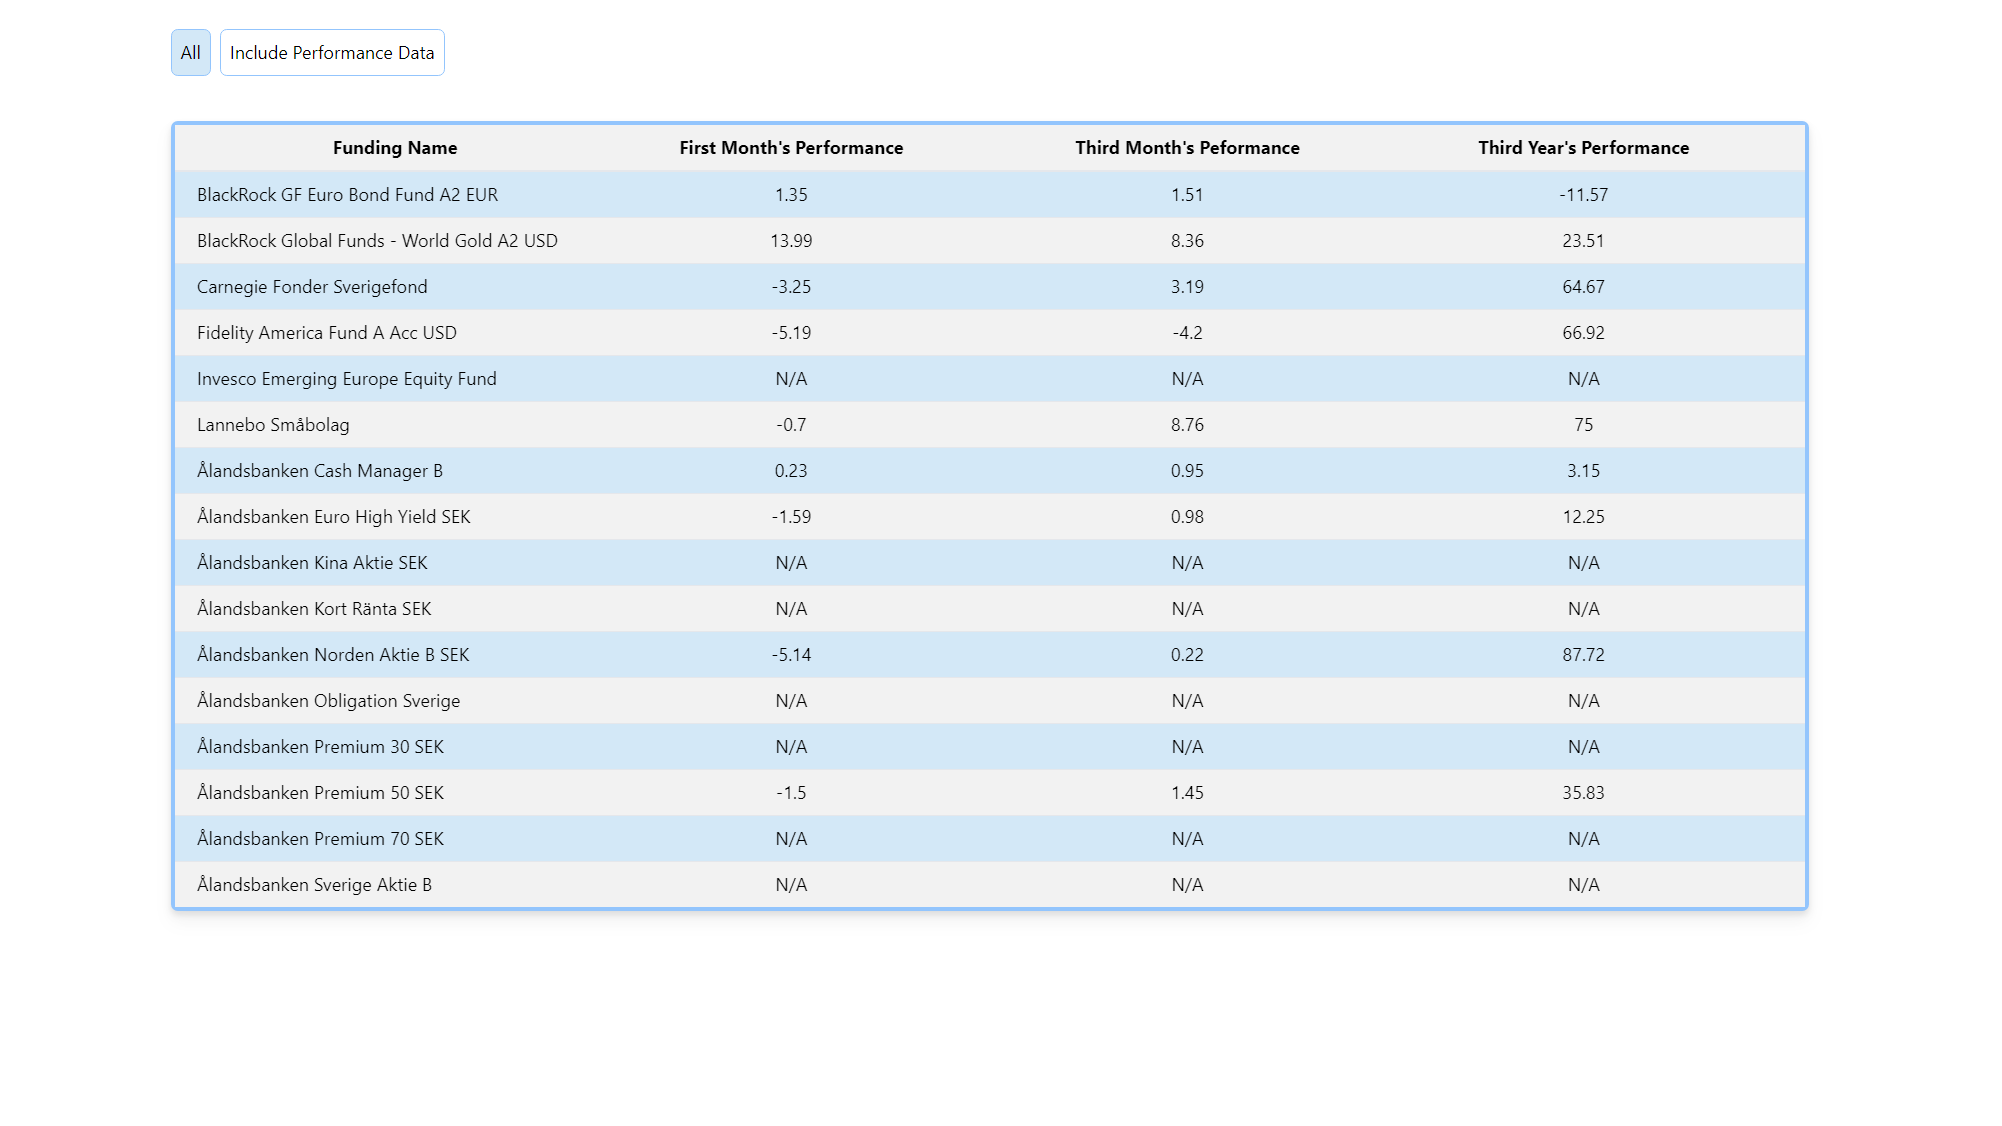
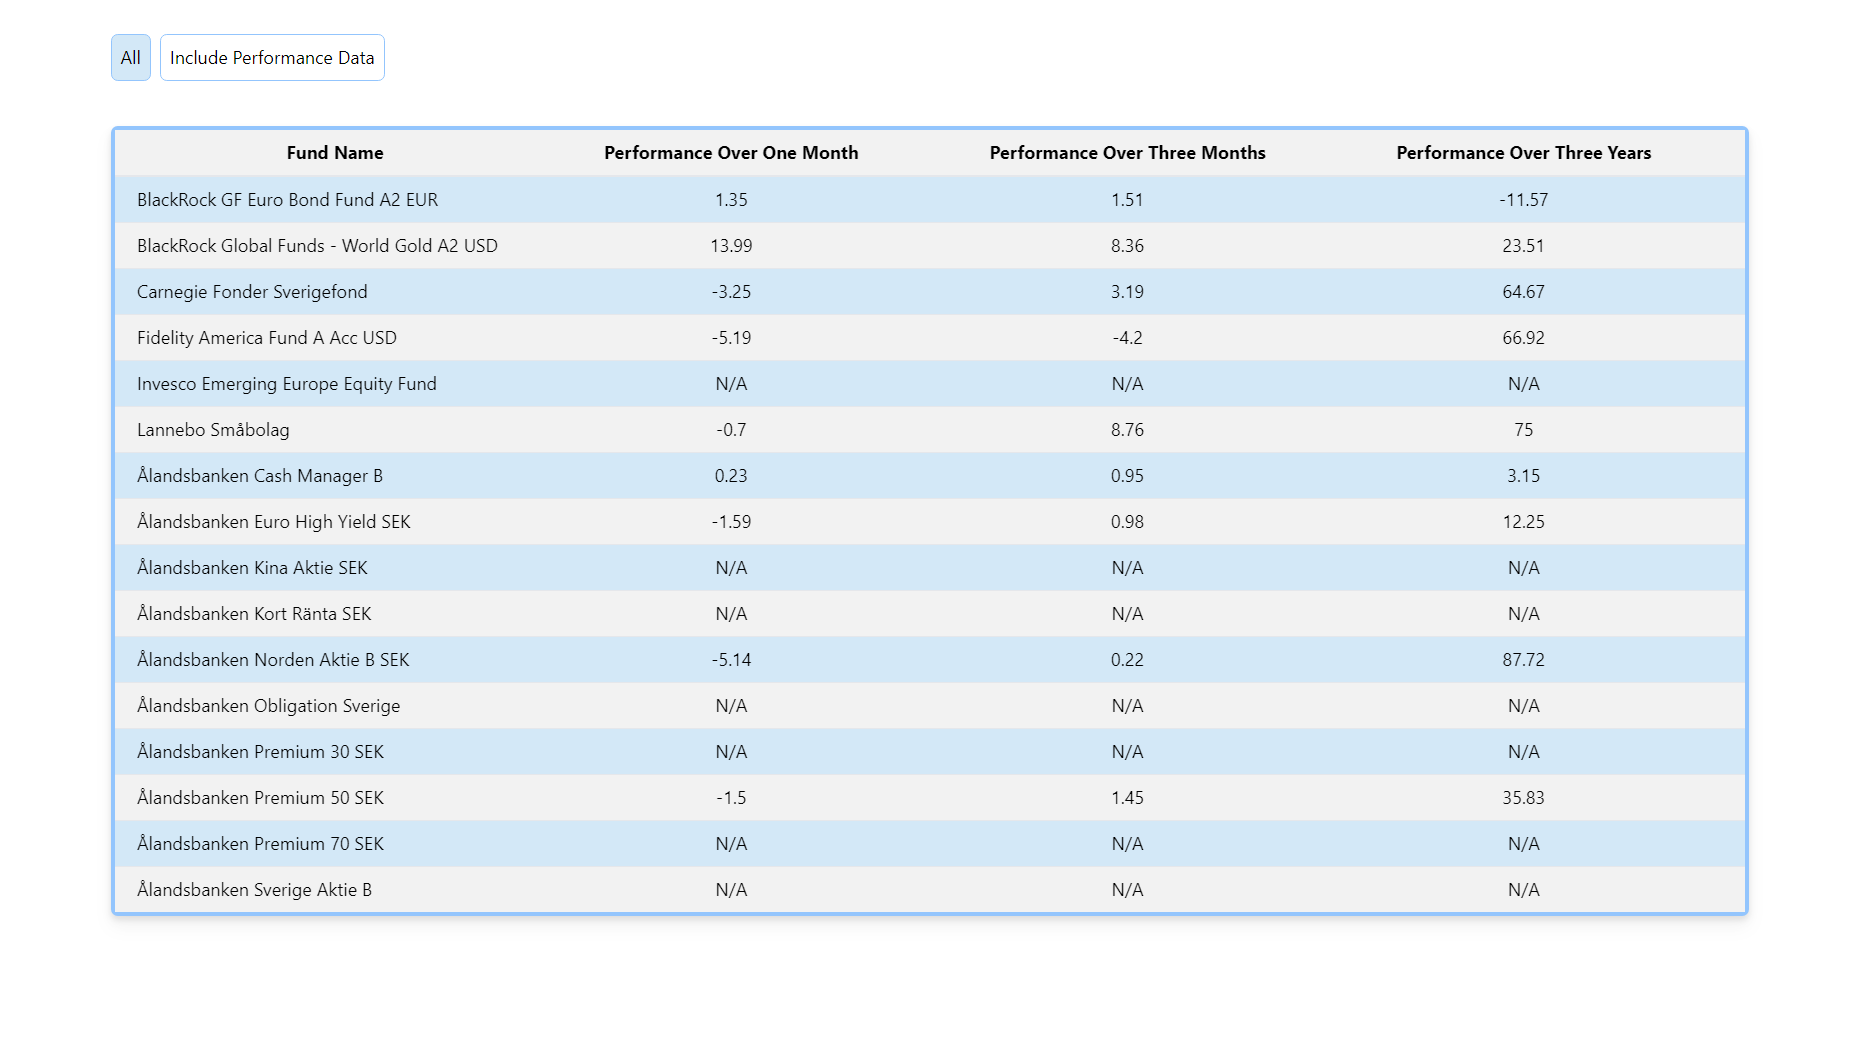
updated table headers

diff --git a/src/app/fund-list/fund-list.component.html b/src/app/fund-list/fund-list.component.html
@@ -1,9 +1,9 @@
 <ol class="fundingList divide-y divide-gray-200">
     <li class="flex justify-between items-center border-b px-5 py-2 text-center">
-      <h2 class="flex-1  font-bold">Funding Name</h2>
-      <h2 class="flex-1  font-bold">First Month's Performance</h2>
-      <h2 class="flex-1  font-bold">Third Month's Peformance</h2>
-      <h2 class="flex-1  font-bold">Third Year's Performance</h2>
+      <h2 class="flex-1  font-bold">Fund Name</h2>
+      <h2 class="flex-1  font-bold">Performance Over One Month</h2>
+      <h2 class="flex-1  font-bold">Performance Over Three Months</h2>
+      <h2 class="flex-1  font-bold">Performance Over Three Years</h2>
     </li>
     @for(item of displayedData; track item){
       <!-- Loop through each item in displayedData to display funding details -->
